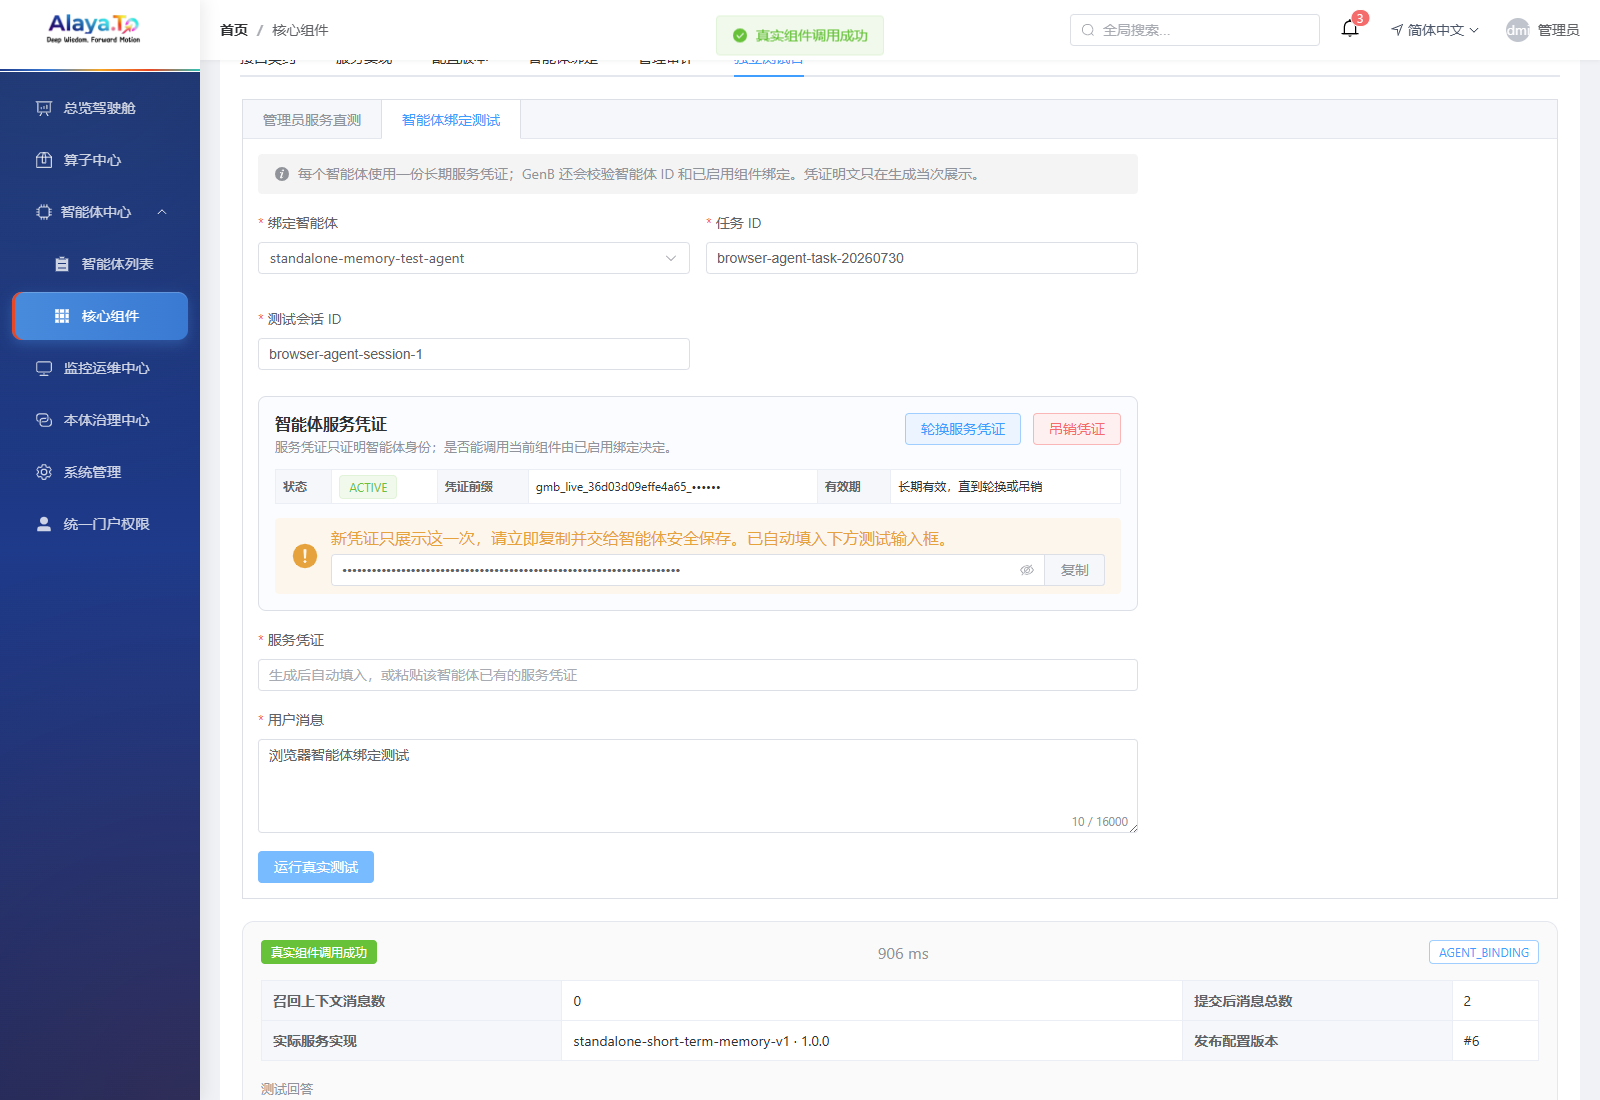
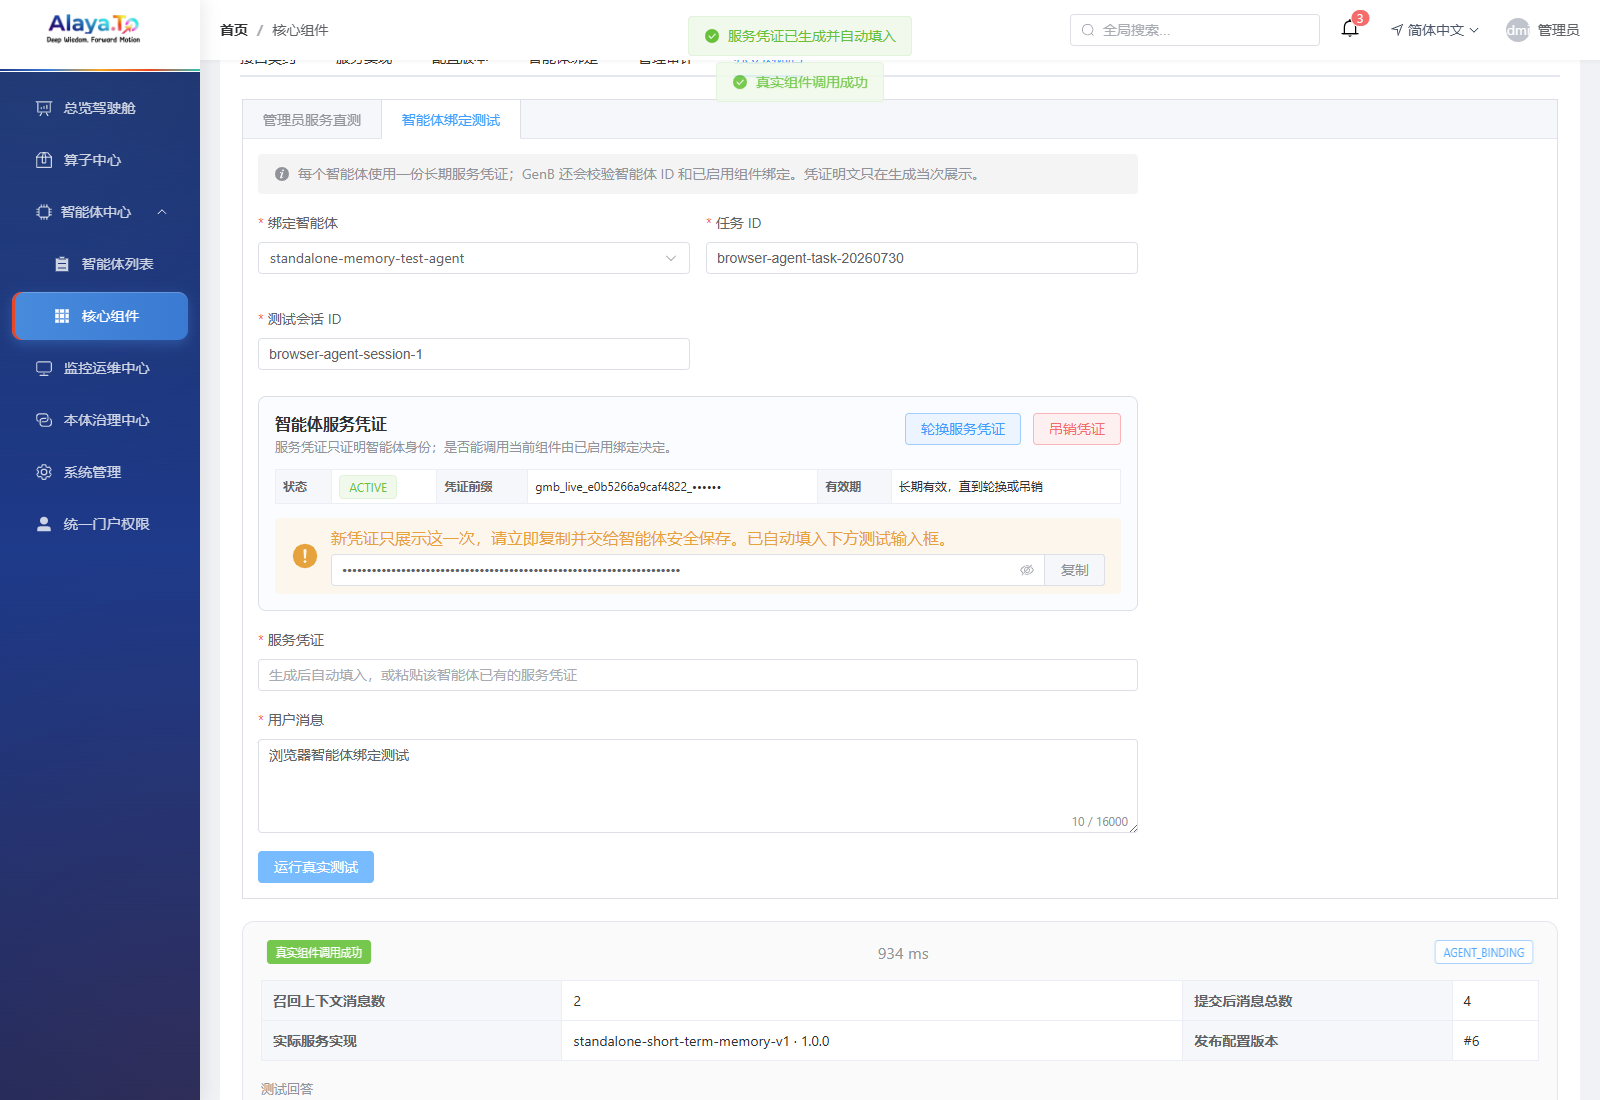
fix(genb): consolidate local console on port 9100

diff --git a/scripts/acceptance/dual_testbench_browser.py b/scripts/acceptance/dual_testbench_browser.py
@@ -5,7 +5,7 @@ from pathlib import Path
 from playwright.sync_api import sync_playwright
 
 
-BASE_URL = os.getenv("GENB_BROWSER_BASE_URL", "http://127.0.0.1:9000")
+BASE_URL = os.getenv("GENB_BROWSER_BASE_URL", "http://localhost:9100")
 PASSWORD = os.environ["GENB_TEST_PASSWORD"]
 OUTPUT = Path(os.getenv(
     "GENB_BROWSER_EVIDENCE",

diff --git a/docs/operation/SHORT_TERM_MEMORY_RUNTIME_CONNECTION_AND_DUAL_TESTBENCH_GUIDE.md b/docs/operation/SHORT_TERM_MEMORY_RUNTIME_CONNECTION_AND_DUAL_TESTBENCH_GUIDE.md
@@ -3,7 +3,7 @@
 > 版本：1.0
 > 日期：2026-07-30
 > 适用对象：第一次使用GenB的管理员、测试人员和智能体开发人员
-> 本地管理端：`http://127.0.0.1:9000/genb/core-components/SHORT_TERM_MEMORY`
+> 本地管理端：`http://localhost:9100/genb/core-components/SHORT_TERM_MEMORY`
 > 短期记忆服务：`http://127.0.0.1:18705`
 
 ## 1. 先理解两个测试按钮的区别
@@ -34,15 +34,15 @@
 ## 3. 启动前检查
 
 1. 打开PowerShell。
-2. 执行`Get-NetTCPConnection -State Listen -LocalPort 6379,8581,9000,18705`。
-3. 应看到：Redis `6379`、GenB后端`8581`、管理端`9000`、短期记忆服务`18705`。
+2. 执行`Get-NetTCPConnection -State Listen -LocalPort 6379,8581,9100,18705`。
+3. 应看到：Redis `6379`、GenB后端`8581`、最新GenB管理端`9100`、短期记忆服务`18705`。本地不再启动`9000`备用入口。
 4. 浏览器打开`http://127.0.0.1:18705/health/ready`。
 5. 应看到`status=UP`和`store=REDIS`。
 6. 如果`18705`没有启动，必须使用`SHORT_TERM_MEMORY_AUTH_MODE=genb`和Redis模式启动；不能用`development_headers`做绑定验收。
 
 ## 4. 从页面检查注册结果
 
-1. 打开`http://127.0.0.1:9000/genb/core-components/SHORT_TERM_MEMORY`。
+1. 打开`http://localhost:9100/genb/core-components/SHORT_TERM_MEMORY`。
 2. 使用具有核心组件权限的管理员身份进入页面。
 3. 点击“接口契约”。
 4. 找到版本`1.0.0`，状态应为“已发布”。

diff --git a/records/reports/20260730-REPORT-short-term-memory-runtime-connection-and-dual-testbench.md b/records/reports/20260730-REPORT-short-term-memory-runtime-connection-and-dual-testbench.md
@@ -99,11 +99,11 @@
 |---:|---|---|
 | 6379 | Redis | 运行中 |
 | 8581 | GenB后端 | 运行中 |
-| 9000 | GenB管理端源码开发服务 | 运行中 |
-| 9100 | 本地统一入口/Nginx | 运行中（已构建旧产物不包含本次源码页面） |
+| 9000 | 旧的本地备用入口 | 已停止，不再监听 |
+| 9100 | 最新GenB管理端 | 运行中，直接运行本次最新源码 |
 | 18705 | 独立短期记忆服务 | 运行中，Redis + GenB身份模式 |
 
-本轮没有部署公网环境。查看新页面应使用`http://127.0.0.1:9000/genb/core-components/SHORT_TERM_MEMORY`；`9100`需要以后重新构建部署管理端产物才会包含本次变化。
+本轮没有部署公网环境。本地只保留一个管理端入口：`http://localhost:9100/genb`；核心组件详情页为`http://localhost:9100/genb/core-components/SHORT_TERM_MEMORY`。原`9000`开发入口已停止，原占用`9100`的客户端Vite进程已由最新管理端进程替换。
 
 ## 7. 文档
 

diff --git a/CURRENT_TASKS.md b/CURRENT_TASKS.md
@@ -21,7 +21,7 @@
 ### 3. 当前进度
 
 - 已完成：M0-M6全部工作，管理员服务直测和智能体绑定测试均已真实通过。
-- 当前运行：6379、8581、9000、9100、18705；新源码页面使用9000入口。
+- 当前运行：6379、8581、9100、18705；最新管理端统一使用`http://localhost:9100/genb`，9000不再监听。
 - 报告：`records/reports/20260730-REPORT-short-term-memory-runtime-connection-and-dual-testbench.md`。
 
 ## 任务：独立短期记忆服务与核心组件接口契约模板
